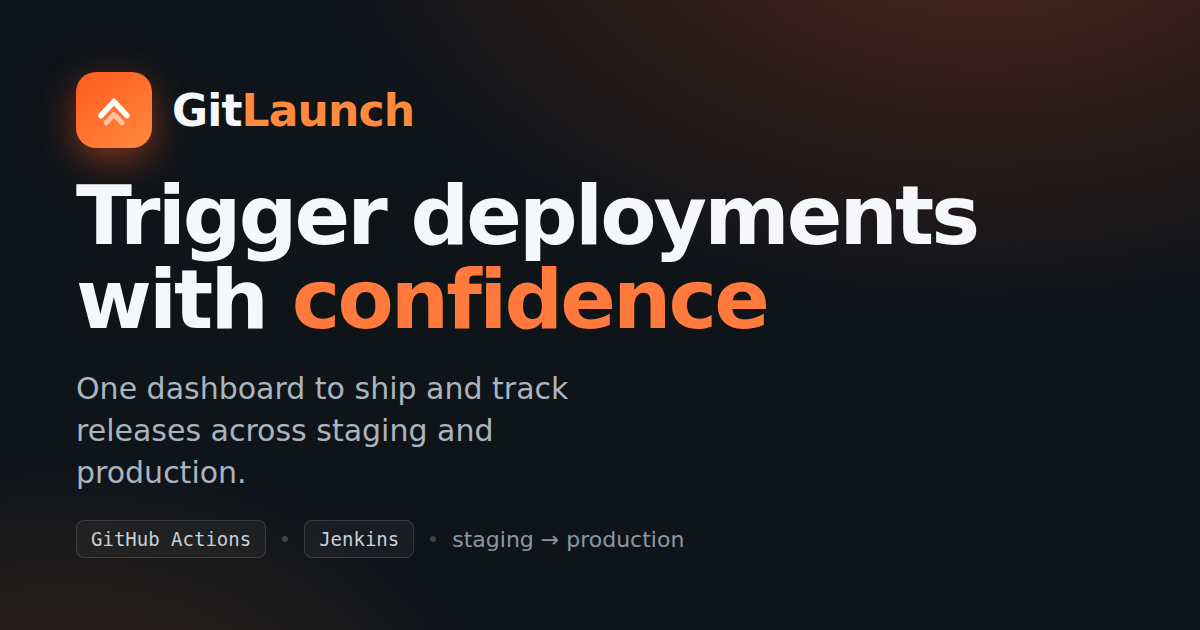
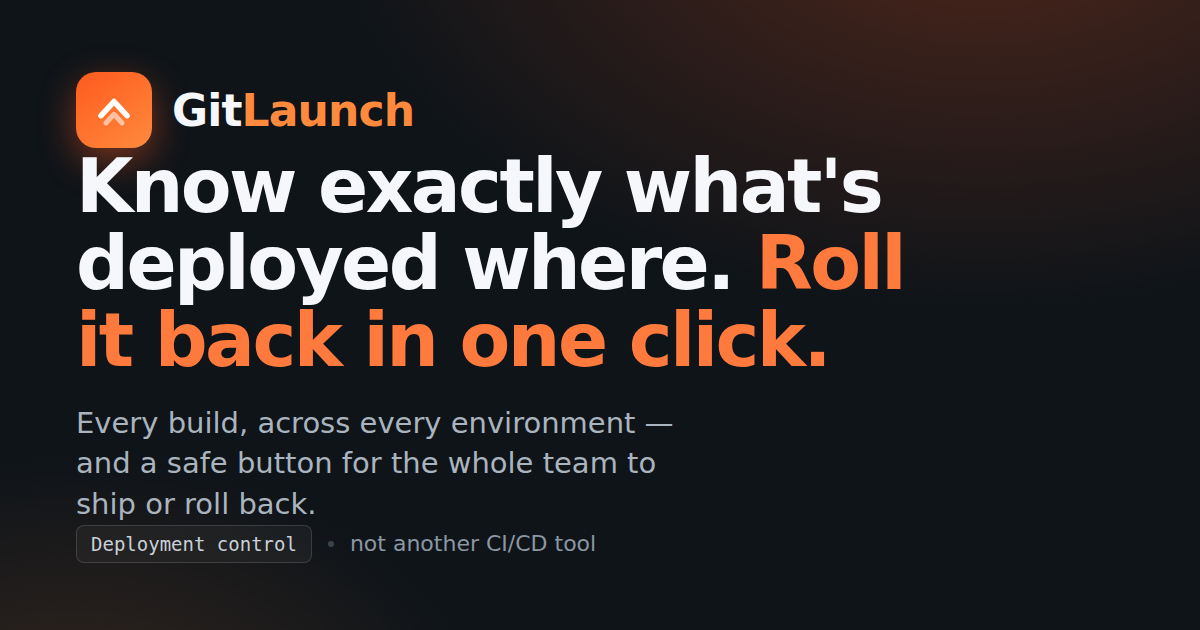
feat(seo): align share card + meta copy with current positioning
Swap the generic 'trigger deployments with confidence' framing for the
live landing-page positioning: 'Know exactly what's deployed where. Roll
it back in one click.' and 'Deployment control, not another CI/CD tool.'
Updates the OG image, the landing/default meta, and the static fallback
description to match the messaging in index.hbs / waitlistExperiment.

Changed region(s): [[0.0617, 0.2413, 0.8325, 0.6333], [0.0617, 0.6635, 0.5858, 0.9048]]

diff --git a/src/server/home/index.ts b/src/server/home/index.ts
@@ -81,9 +81,9 @@ export default function (deps: HomeRouteDeps = {}) {
       // landing page. Kept stable and independent of the A/B copy arm so search
       // engines and link unfurlers see consistent content across visitors.
       const meta = buildPageMeta({
-        title: "GitLaunch — Trigger deployments with confidence",
+        title: "GitLaunch — Know exactly what's deployed where",
         description:
-          "GitLaunch is a simple dashboard to trigger and track deployments across staging and production. Works with GitHub Actions, Jenkins, and more.",
+          "See every build across every environment, and give your whole team a safe button to ship and roll back. Deployment control, not another CI/CD tool.",
         path: "/",
         publicUrl: process.env.PUBLIC_URL,
       });

diff --git a/src/server/seo/meta.ts b/src/server/seo/meta.ts
@@ -10,9 +10,9 @@
 const SITE_NAME = "GitLaunch";
 
 // The site-wide fallbacks, used for any page that does not describe itself.
-const DEFAULT_TITLE = "GitLaunch — Trigger deployments with confidence";
+const DEFAULT_TITLE = "GitLaunch — Know exactly what's deployed where";
 const DEFAULT_DESCRIPTION =
-  "GitLaunch is a simple dashboard to trigger and track deployments. Works with GitHub Actions, Jenkins, and more. Deploy with confidence.";
+  "GitLaunch shows every build across every environment and gives your whole team a safe button to ship and roll back. Deployment control, not another CI/CD tool.";
 // A pre-rendered 1200×630 branded card, served from /public. Regenerate with
 // scripts/generate-og-image.mjs.
 const DEFAULT_IMAGE = "/public/og-image.png";
